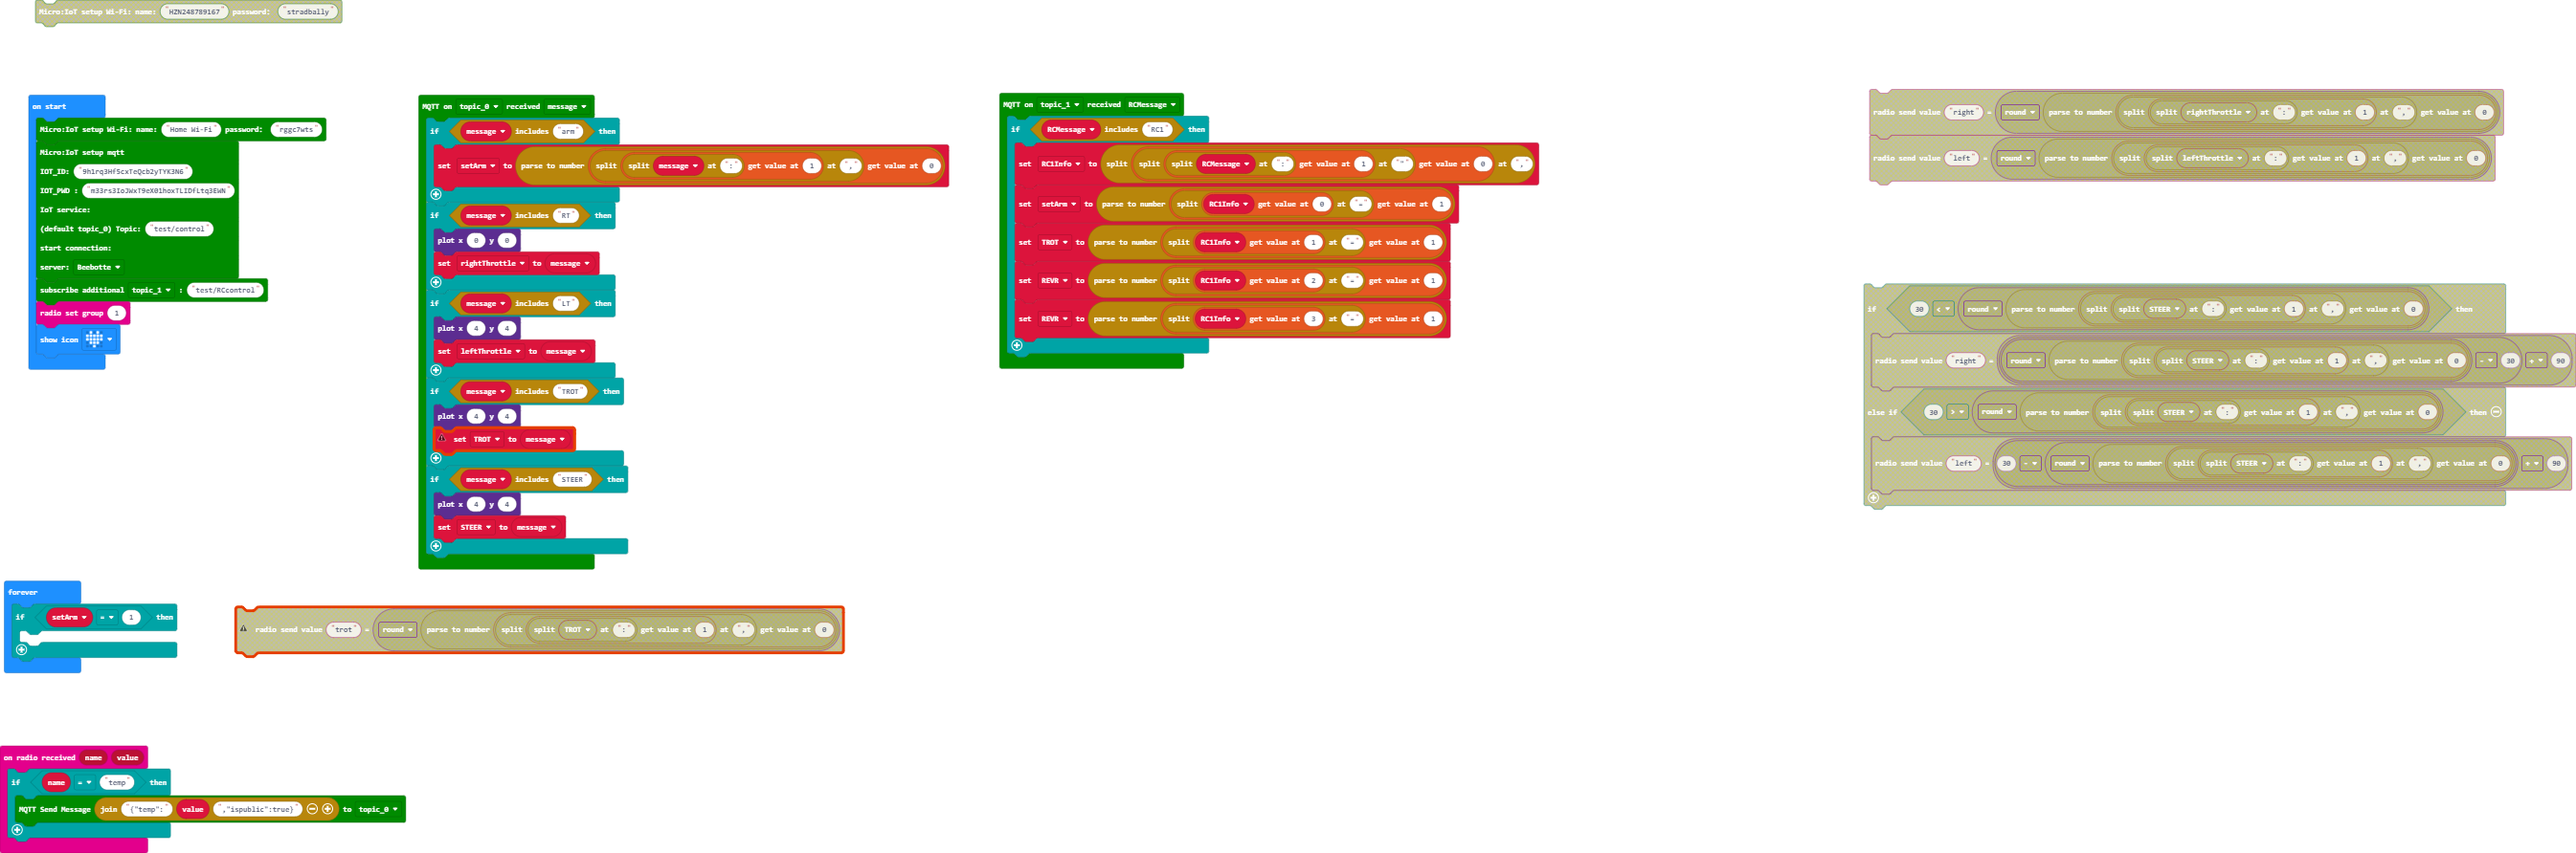
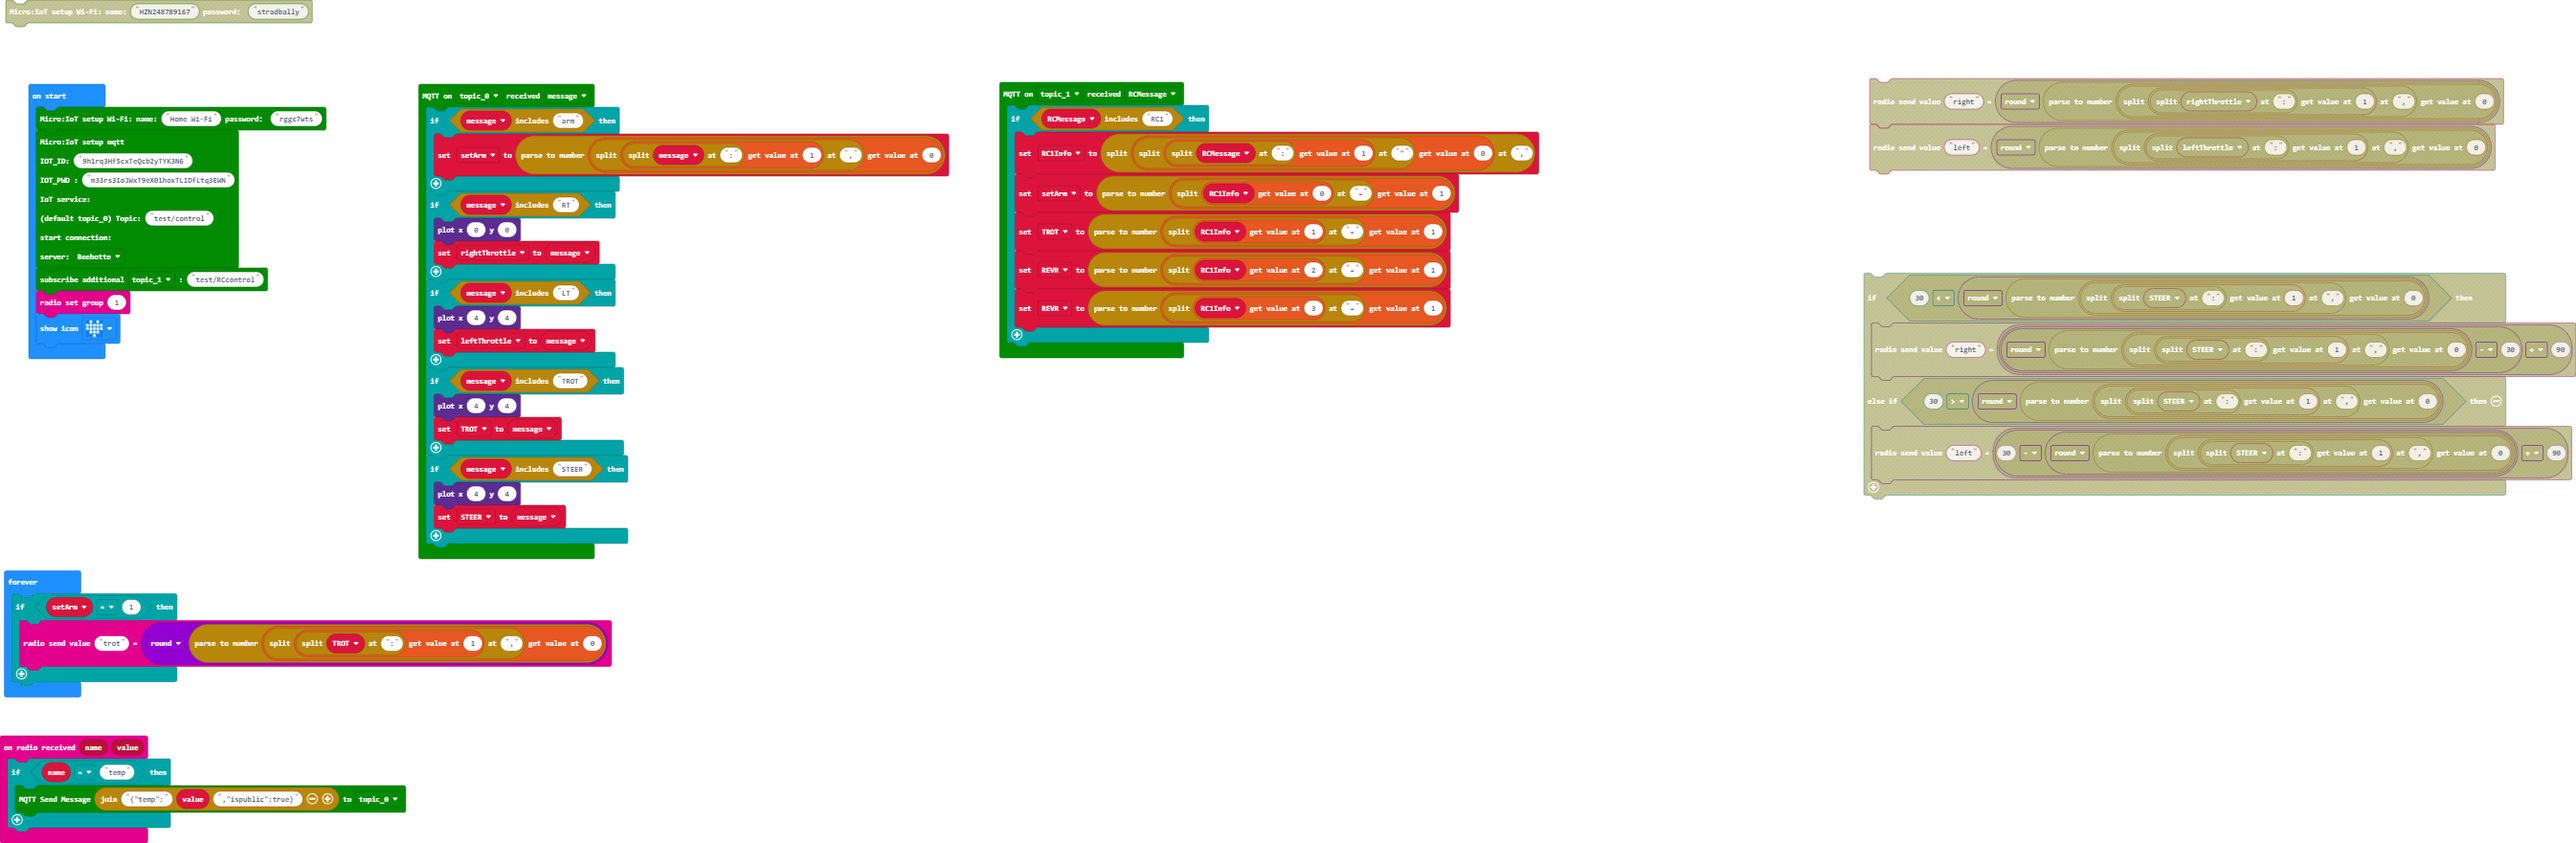
Update main.blocks, main.ts

diff --git a/main.ts b/main.ts
@@ -52,6 +52,6 @@ radio.setGroup(1)
 basic.showIcon(IconNames.Heart)
 basic.forever(function () {
     if (setArm == 1) {
-    	
+        radio.sendValue("trot", Math.round(parseFloat(TROT.split(":")[1].split(",")[0])))
     }
 })
